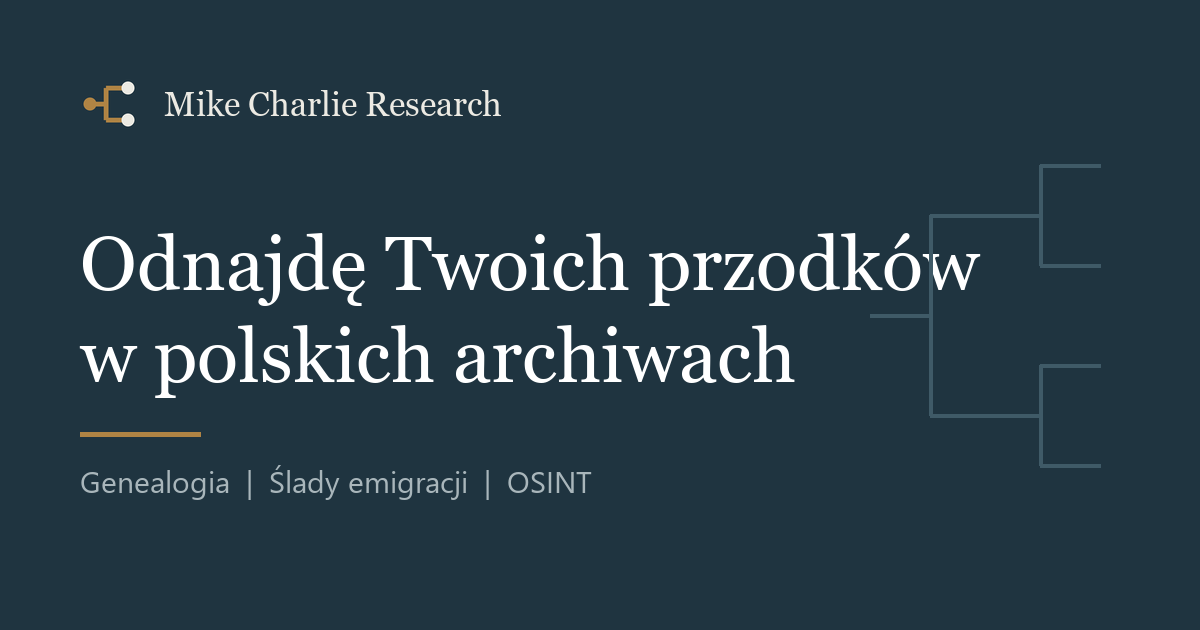
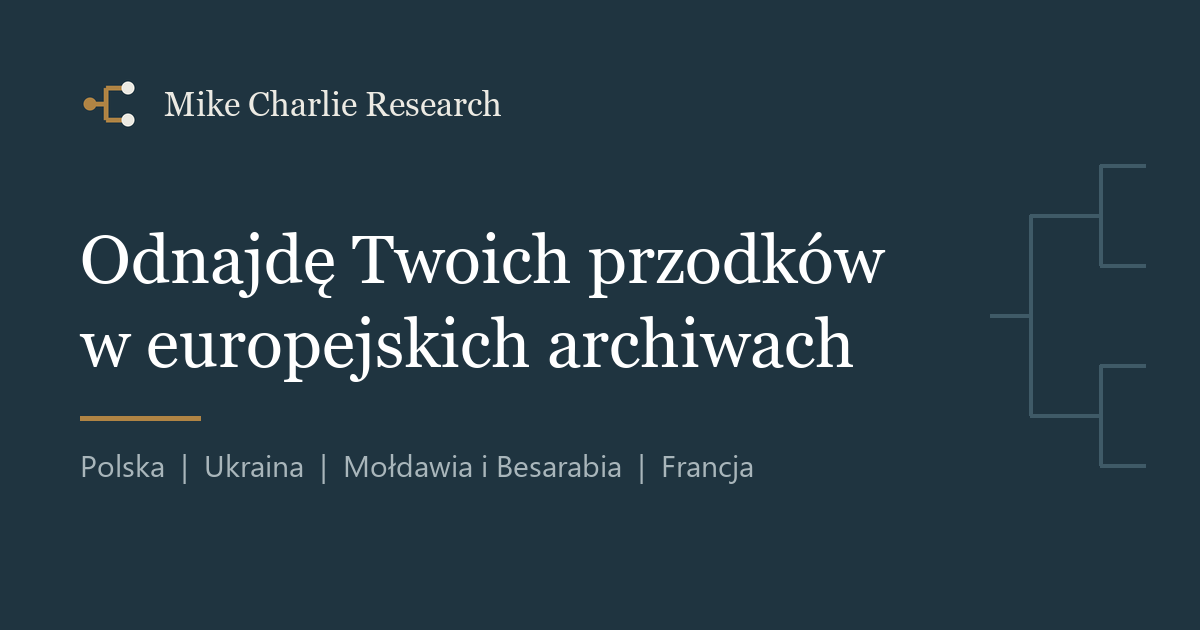
Reposition for international clients: European archives, Canadian citizenship, academic research
- Hero, services and FAQ cover Poland, Ukraine, Moldova/Bessarabia and France
- New service: lineage documentation for proof of Canadian citizenship by descent
- Academic archival research, incl. Polish Government-in-Exile documents
- Updated pedigree example, JSON-LD, Open Graph images and llms.txt

Changed region(s): [[0.0617, 0.2413, 0.9558, 0.754], [0.0617, 0.7238, 0.6475, 0.7841]]

diff --git a/index.html b/index.html
@@ -3,8 +3,8 @@
 <head>
   <meta charset="utf-8">
   <meta name="viewport" content="width=device-width, initial-scale=1">
-  <title>Polish Genealogy Research &amp; OSINT | Mike Charlie Research</title>
-  <meta name="description" content="Find your ancestors in Poland: archival genealogy research in parish and civil records, emigration tracing, record translation and OSINT. Reports in English.">
+  <title>Eastern European Genealogy Research | Mike Charlie Research</title>
+  <meta name="description" content="Find your ancestors in Poland, Ukraine, Moldova (Bessarabia), France and beyond. Archival genealogy research, Canadian citizenship-by-descent records, OSINT.">
   <link rel="canonical" href="https://osintinvestigator.github.io/osint/">
   <link rel="alternate" hreflang="en" href="https://osintinvestigator.github.io/osint/">
   <link rel="alternate" hreflang="pl" href="https://osintinvestigator.github.io/osint/pl/">
@@ -14,8 +14,8 @@
 
   <meta property="og:type" content="website">
   <meta property="og:site_name" content="Mike Charlie Research">
-  <meta property="og:title" content="Polish Genealogy Research &amp; OSINT | Mike Charlie Research">
-  <meta property="og:description" content="Ancestor research in Polish archives, emigration tracing and evidence-based verification. Every finding tied to a cited record.">
+  <meta property="og:title" content="Eastern European Genealogy Research | Mike Charlie Research">
+  <meta property="og:description" content="Ancestor research in the archives of Poland, Ukraine, Moldova, France and beyond, for families in the US, Canada, Germany and Israel. Every finding tied to a cited record.">
   <meta property="og:url" content="https://osintinvestigator.github.io/osint/">
   <meta property="og:image" content="https://osintinvestigator.github.io/osint/assets/og-image.png">
   <meta property="og:image:width" content="1200">
@@ -45,19 +45,20 @@
         "logo": "https://osintinvestigator.github.io/osint/assets/apple-touch-icon.png",
         "image": "https://osintinvestigator.github.io/osint/assets/og-image.png",
         "email": "mike.charlie21@proton.me",
-        "description": "Genealogy research in Polish archives, emigration tracing, historical source verification and open-source intelligence (OSINT) research for private clients, lawyers and journalists.",
+        "description": "Genealogy research in European archives, especially Poland, Ukraine, Moldova (historic Bessarabia) and France, for clients in the United States, Canada, Germany and Israel. Lineage documentation for proof of Canadian citizenship by descent, archival research for academics, historical source verification and open-source intelligence (OSINT).",
         "areaServed": "Worldwide",
         "availableLanguage": ["English", "Polish"],
-        "knowsAbout": ["Polish genealogy", "Genealogical research", "Archival research", "Parish registers", "Emigration records", "Historical source verification", "Open-source intelligence", "Due diligence"],
+        "knowsAbout": ["Eastern European genealogy", "Polish genealogy", "Ukrainian genealogy", "Bessarabia genealogy", "Moldovan genealogy", "Jewish genealogy", "French genealogy", "Canadian citizenship by descent", "Polish Government-in-Exile", "Archival research", "Metrical books", "Emigration records", "Historical source verification", "Open-source intelligence"],
         "hasOfferCatalog": {
           "@type": "OfferCatalog",
           "name": "Research services",
           "itemListElement": [
-            {"@type": "Offer", "itemOffered": {"@type": "Service", "name": "Ancestor research in Polish archives"}},
+            {"@type": "Offer", "itemOffered": {"@type": "Service", "name": "Ancestor research in Poland, Ukraine, Moldova (Bessarabia), France and other European archives"}},
+            {"@type": "Offer", "itemOffered": {"@type": "Service", "name": "Lineage documentation for proof of Canadian citizenship by descent"}},
             {"@type": "Offer", "itemOffered": {"@type": "Service", "name": "Emigration tracing and village-of-origin search"}},
             {"@type": "Offer", "itemOffered": {"@type": "Service", "name": "Reading and translating old records"}},
             {"@type": "Offer", "itemOffered": {"@type": "Service", "name": "20th-century fates: war, deportation and displacement"}},
-            {"@type": "Offer", "itemOffered": {"@type": "Service", "name": "Historical source verification"}},
+            {"@type": "Offer", "itemOffered": {"@type": "Service", "name": "Archival research and historical source verification for academics"}},
             {"@type": "Offer", "itemOffered": {"@type": "Service", "name": "OSINT background checks and due diligence"}}
           ]
         }
@@ -73,12 +74,16 @@
       {
         "@type": "FAQPage",
         "mainEntity": [
-          {"@type": "Question", "name": "How far back can Polish records go?",
-           "acceptedAnswer": {"@type": "Answer", "text": "Many Catholic parish registers survive from the 17th or 18th century, and civil-religious registers were kept in most of central Poland from 1808. Wars destroyed some collections, so how far a line can be taken depends on the parish. I tell you what is likely to survive before any work begins."}},
+          {"@type": "Question", "name": "Which countries do you research?",
+           "acceptedAnswer": {"@type": "Answer", "text": "Mostly Central and Eastern Europe: Poland, Ukraine, Moldova and historic Bessarabia, plus France, Germany and other countries where a family line leads. Most of my clients live in the United States, Germany, Israel and Canada."}},
+          {"@type": "Question", "name": "How far back do the records go?",
+           "acceptedAnswer": {"@type": "Answer", "text": "It depends on the country and the parish or congregation. In Poland many Catholic parish registers survive from the 17th or 18th century; in former Russian Empire territories such as Bessarabia most surviving metrical books date from the 19th century. Wars destroyed some collections, so I tell you what is likely to survive before any work begins."}},
+          {"@type": "Question", "name": "Can you help me prove Canadian citizenship by descent?",
+           "acceptedAnswer": {"@type": "Answer", "text": "Yes, on the research side. I find and document the birth, marriage and citizenship records that connect you to a Canadian ancestor, and assemble them into a clear lineage file. I do not give legal advice or submit applications; for that, work with an immigration lawyer or with IRCC directly."}},
           {"@type": "Question", "name": "Do I need to know the village my family came from?",
            "acceptedAnswer": {"@type": "Answer", "text": "No. Finding the place of origin is often the first part of the job. Emigration, naturalisation, military and church records in the destination country frequently name the town or parish."}},
           {"@type": "Question", "name": "My family's surname was changed after emigration. Can you still find them?",
-           "acceptedAnswer": {"@type": "Answer", "text": "Usually, yes. Anglicised and misspelled names are common; I work from the Polish, Latin, German or Russian forms that would have appeared in the original records."}},
+           "acceptedAnswer": {"@type": "Answer", "text": "Usually, yes. Anglicised and misspelled names are common; I work from the forms that would have appeared in the original records, whether Polish, Latin, German, Russian or another language."}},
           {"@type": "Question", "name": "Can we talk by phone or video call?",
            "acceptedAnswer": {"@type": "Answer", "text": "No. All communication is by email. It keeps a written record of the scope, the questions and the findings, and it lets you reply in your own time."}},
           {"@type": "Question", "name": "What will I receive at the end?",
@@ -112,8 +117,8 @@
     <section class="hero">
       <div class="wrap">
         <div>
-          <h1>Find your ancestors in Poland's archives</h1>
-          <p class="lede">Genealogy research in Polish parish, civil and state records, for families whose story continues in America, Canada, Germany, Israel or anywhere else.</p>
+          <h1>Find your ancestors in Europe's archives</h1>
+          <p class="lede">Genealogy research in Poland, Ukraine, Moldova and historic Bessarabia, France and beyond, for families who live in the United States, Canada, Germany, Israel or anywhere else.</p>
           <p class="sub">I combine classical archival research with open-source intelligence methods, so leads that look like dead ends often turn out not to be.</p>
           <div class="cta-row">
             <a class="btn" href="#contact">Describe your family's story</a>
@@ -121,30 +126,30 @@
           </div>
         </div>
         <figure style="margin:0">
-          <svg class="tree" viewBox="0 0 540 400" role="img" aria-labelledby="tree-t tree-d">
-          <title id="tree-t">Example ancestor chart</title><desc id="tree-d">Four generations traced back from a client in North America to great-grandparents born in Tarnów, Posen and Łomża, with unresolved branches marked as not yet found.</desc>
-          <path class="br g2" d="M112 200H127M127 100V300M127 100H142M127 300H142"/>
-          <path class="br g3" d="M254 100H269M269 50V150M269 50H284M269 150H284"/>
-          <path class="br g3" d="M254 300H269M269 250V350M269 250H284M269 350H284"/>
-          <path class="br g4" d="M396 50H411M411 25V75M411 25H426M411 75H426"/>
-          <path class="br g4" d="M396 150H411M411 125V175M411 125H426M411 175H426"/>
-          <path class="br g4" d="M396 250H411M411 225V275M411 225H426M411 275H426"/>
-          <path class="br g4" d="M396 350H411M411 325V375M411 325H426M411 375H426"/>
-          <g class="slip g1 you"><rect x="0" y="182" width="112" height="36" rx="2"/><text x="8" y="197">You</text><text class="y" x="8" y="211">the client</text></g>
-          <g class="slip g2"><rect x="142" y="82" width="112" height="36" rx="2"/><text x="150" y="97">Father</text><text class="y" x="150" y="111">b. 1946, Chicago</text></g>
-          <g class="slip g2"><rect x="142" y="282" width="112" height="36" rx="2"/><text x="150" y="297">Mother</text><text class="y" x="150" y="311">b. 1949, Toronto</text></g>
-          <g class="slip g3"><rect x="284" y="32" width="112" height="36" rx="2"/><text x="292" y="47">Józef Nowak</text><text class="y" x="292" y="61">b. 1912, Tarnów</text></g>
-          <g class="slip g3"><rect x="284" y="132" width="112" height="36" rx="2"/><text x="292" y="147">Helena Weber</text><text class="y" x="292" y="161">b. 1915, Poznań</text></g>
-          <g class="slip g3"><rect x="284" y="232" width="112" height="36" rx="2"/><text x="292" y="247">Stanisław Lis</text><text class="y" x="292" y="261">b. 1908, Łomża</text></g>
-          <g class="slip g3 unknown"><rect x="284" y="332" width="112" height="36" rx="2"/><text x="292" y="347">Grandmother</text><text class="y" x="292" y="361">name unknown</text></g>
-          <g class="slip g4"><rect x="426" y="7" width="112" height="36" rx="2"/><text x="434" y="22">Jan Nowak</text><text class="y" x="434" y="36">b. 1881, Tarnów</text></g>
-          <g class="slip g4"><rect x="426" y="57" width="112" height="36" rx="2"/><text x="434" y="72">Maria Kos</text><text class="y" x="434" y="86">b. 1886, Tarnów</text></g>
-          <g class="slip g4"><rect x="426" y="107" width="112" height="36" rx="2"/><text x="434" y="122">Franz Weber</text><text class="y" x="434" y="136">b. 1879, Posen</text></g>
-          <g class="slip g4 unknown"><rect x="426" y="157" width="112" height="36" rx="2"/><text x="434" y="172">?</text><text class="y" x="434" y="186">not yet found</text></g>
-          <g class="slip g4"><rect x="426" y="207" width="112" height="36" rx="2"/><text x="434" y="222">Wojciech Lis</text><text class="y" x="434" y="236">b. 1874, Łomża</text></g>
-          <g class="slip g4"><rect x="426" y="257" width="112" height="36" rx="2"/><text x="434" y="272">Anna Wróbel</text><text class="y" x="434" y="286">b. 1880, Łomża</text></g>
-          <g class="slip g4 unknown"><rect x="426" y="307" width="112" height="36" rx="2"/><text x="434" y="322">?</text><text class="y" x="434" y="336">not yet found</text></g>
-          <g class="slip g4 unknown"><rect x="426" y="357" width="112" height="36" rx="2"/><text x="434" y="372">?</text><text class="y" x="434" y="386">not yet found</text></g>
+          <svg class="tree" viewBox="0 0 552 400" role="img" aria-labelledby="tree-t tree-d">
+          <title id="tree-t">Example ancestor chart</title><desc id="tree-d">Four generations traced back from a client in North America to great-grandparents born in Tarnów, Czernowitz and Soroca in Bessarabia, with unresolved branches marked as not yet found.</desc>
+          <path class="br g2" d="M117 200H132M132 100V300M132 100H145M132 300H145"/>
+          <path class="br g3" d="M262 100H277M277 50V150M277 50H290M277 150H290"/>
+          <path class="br g3" d="M262 300H277M277 250V350M277 250H290M277 350H290"/>
+          <path class="br g4" d="M407 50H422M422 25V75M422 25H435M422 75H435"/>
+          <path class="br g4" d="M407 150H422M422 125V175M422 125H435M422 175H435"/>
+          <path class="br g4" d="M407 250H422M422 225V275M422 225H435M422 275H435"/>
+          <path class="br g4" d="M407 350H422M422 325V375M422 325H435M422 375H435"/>
+          <g class="slip g1 you"><rect x="0" y="182" width="117" height="36" rx="2"/><text x="8" y="197">You</text><text class="y" x="8" y="211">the client</text></g>
+          <g class="slip g2"><rect x="145" y="82" width="117" height="36" rx="2"/><text x="153" y="97">Father</text><text class="y" x="153" y="111">b. 1946, Chicago</text></g>
+          <g class="slip g2"><rect x="145" y="282" width="117" height="36" rx="2"/><text x="153" y="297">Mother</text><text class="y" x="153" y="311">b. 1949, Toronto</text></g>
+          <g class="slip g3"><rect x="290" y="32" width="117" height="36" rx="2"/><text x="298" y="47">Józef Nowak</text><text class="y" x="298" y="61">b. 1912, Tarnów</text></g>
+          <g class="slip g3"><rect x="290" y="132" width="117" height="36" rx="2"/><text x="298" y="147">Helena Weber</text><text class="y" x="298" y="161">b. 1915, Lemberg</text></g>
+          <g class="slip g3"><rect x="290" y="232" width="117" height="36" rx="2"/><text x="298" y="247">Mendel Roitman</text><text class="y" x="298" y="261">b. 1908, Kishinev</text></g>
+          <g class="slip g3 unknown"><rect x="290" y="332" width="117" height="36" rx="2"/><text x="298" y="347">Grandmother</text><text class="y" x="298" y="361">name unknown</text></g>
+          <g class="slip g4"><rect x="435" y="7" width="117" height="36" rx="2"/><text x="443" y="22">Jan Nowak</text><text class="y" x="443" y="36">b. 1881, Tarnów</text></g>
+          <g class="slip g4"><rect x="435" y="57" width="117" height="36" rx="2"/><text x="443" y="72">Maria Kos</text><text class="y" x="443" y="86">b. 1886, Tarnów</text></g>
+          <g class="slip g4"><rect x="435" y="107" width="117" height="36" rx="2"/><text x="443" y="122">Franz Weber</text><text class="y" x="443" y="136">b. 1879, Czernowitz</text></g>
+          <g class="slip g4 unknown"><rect x="435" y="157" width="117" height="36" rx="2"/><text x="443" y="172">?</text><text class="y" x="443" y="186">not yet found</text></g>
+          <g class="slip g4"><rect x="435" y="207" width="117" height="36" rx="2"/><text x="443" y="222">Leib Roitman</text><text class="y" x="443" y="236">b. 1874, Soroca</text></g>
+          <g class="slip g4"><rect x="435" y="257" width="117" height="36" rx="2"/><text x="443" y="272">Chaja Roitman</text><text class="y" x="443" y="286">b. 1880, Soroca</text></g>
+          <g class="slip g4 unknown"><rect x="435" y="307" width="117" height="36" rx="2"/><text x="443" y="322">?</text><text class="y" x="443" y="336">not yet found</text></g>
+          <g class="slip g4 unknown"><rect x="435" y="357" width="117" height="36" rx="2"/><text x="443" y="372">?</text><text class="y" x="443" y="386">not yet found</text></g>
           </svg>
           <figcaption class="tree-cap">Illustrative chart. Every name in a real report is tied to a cited record; gaps stay marked as gaps.</figcaption>
         </figure>
@@ -155,12 +160,16 @@
       <div class="wrap split">
         <header>
           <h2>Genealogy research</h2>
-          <p>Most of the work: tracing families back through records kept in Poland and the lands of the former partitions.</p>
+          <p>Most of my work, for clients abroad: tracing families through parish, synagogue, civil and state records across Central and Eastern Europe, and wherever else a line leads.</p>
         </header>
         <ul class="services">
           <li>
-            <h3>Ancestor search in Polish archives</h3>
-            <p>Births, marriages and deaths from parish and civil registers, State Archives, diocesan archives and the online indexes built on them.</p>
+            <h3>Ancestors across Europe</h3>
+            <p>Births, marriages and deaths from archives in Poland, Ukraine, Moldova and historic Bessarabia, France and neighbouring countries, and from the online indexes built on them.</p>
+          </li>
+          <li>
+            <h3>Proof of Canadian citizenship</h3>
+            <p>For Americans and others with a Canadian ancestor: the birth, marriage and citizenship records that document your line of descent, assembled into a clear file.</p>
           </li>
           <li>
             <h3>Emigration tracing</h3>
@@ -175,12 +184,8 @@
             <p>What happened to relatives during the wars, deportations and border changes, from military, displacement and emigration-era sources.</p>
           </li>
           <li>
-            <h3>Living relatives</h3>
-            <p>Locating adult descendants of a shared ancestor, using lawful open sources and a careful, consent-minded approach to first contact.</p>
-          </li>
-          <li>
-            <h3>Checking an existing tree</h3>
-            <p>A second look at research you or someone else has done: which links are proven, which are guesses, and what to search next.</p>
+            <h3>Living relatives and existing trees</h3>
+            <p>Locating adult descendants of a shared ancestor through lawful open sources, or a second look at an existing tree: what is proven, what is a guess, what to search next.</p>
           </li>
         </ul>
       </div>
@@ -205,8 +210,9 @@
               </ul>
             </div>
             <div>
-              <h3>Historical source verification</h3>
+              <h3>Academic and historical research</h3>
               <ul class="plain">
+                <li>Archival analysis for university researchers in the United States, including documents of the Polish Government-in-Exile</li>
                 <li>Independent review of a historical argument before publication</li>
                 <li>Claim-by-claim check against the cited evidence</li>
                 <li>Documented negative findings and open questions</li>
@@ -281,8 +287,16 @@
         </header>
         <div>
           <details>
-            <summary>How far back can Polish records go?</summary>
-            <p>Many Catholic parish registers survive from the 17th or 18th century, and civil-religious registers were kept in most of central Poland from 1808. Wars destroyed some collections, so how far a line can be taken depends on the parish. I tell you what is likely to survive before any work begins.</p>
+            <summary>Which countries do you research?</summary>
+            <p>Mostly Central and Eastern Europe: Poland, Ukraine, Moldova and historic Bessarabia, plus France, Germany and other countries where a family line leads. Most of my clients live in the United States, Germany, Israel and Canada.</p>
+          </details>
+          <details>
+            <summary>How far back do the records go?</summary>
+            <p>It depends on the country and the parish or congregation. In Poland many Catholic parish registers survive from the 17th or 18th century; in former Russian Empire territories such as Bessarabia most surviving metrical books date from the 19th century. Wars destroyed some collections, so I tell you what is likely to survive before any work begins.</p>
+          </details>
+          <details>
+            <summary>Can you help me prove Canadian citizenship by descent?</summary>
+            <p>Yes, on the research side. I find and document the birth, marriage and citizenship records that connect you to a Canadian ancestor, and assemble them into a clear lineage file. I do not give legal advice or submit applications; for that, work with an immigration lawyer or with IRCC directly.</p>
           </details>
           <details>
             <summary>Do I need to know the village my family came from?</summary>
@@ -290,7 +304,7 @@
           </details>
           <details>
             <summary>My family's surname was changed after emigration. Can you still find them?</summary>
-            <p>Usually, yes. Anglicised and misspelled names are common; I work from the Polish, Latin, German or Russian forms that would have appeared in the original records.</p>
+            <p>Usually, yes. Anglicised and misspelled names are common; I work from the forms that would have appeared in the original records, whether Polish, Latin, German, Russian or another language.</p>
           </details>
           <details>
             <summary>Can we talk by phone or video call?</summary>

diff --git a/pl/index.html b/pl/index.html
@@ -3,8 +3,8 @@
 <head>
   <meta charset="utf-8">
   <meta name="viewport" content="width=device-width, initial-scale=1">
-  <title>Genealogia i poszukiwania przodków, OSINT | Mike Charlie Research</title>
-  <meta name="description" content="Poszukiwania przodków w polskich archiwach: księgi metrykalne, akta stanu cywilnego, ślady emigracji, odczytywanie dawnych dokumentów i OSINT. Kontakt e-mailowy.">
+  <title>Poszukiwania przodków w Europie | Mike Charlie Research</title>
+  <meta name="description" content="Poszukiwania przodków w archiwach Polski, Ukrainy, Mołdawii (Besarabii), Francji i innych krajów. Dokumentacja do obywatelstwa Kanady, kwerendy naukowe, OSINT.">
   <link rel="canonical" href="https://osintinvestigator.github.io/osint/pl/">
   <link rel="alternate" hreflang="en" href="https://osintinvestigator.github.io/osint/">
   <link rel="alternate" hreflang="pl" href="https://osintinvestigator.github.io/osint/pl/">
@@ -14,8 +14,8 @@
 
   <meta property="og:type" content="website">
   <meta property="og:site_name" content="Mike Charlie Research">
-  <meta property="og:title" content="Genealogia i poszukiwania przodków | Mike Charlie Research">
-  <meta property="og:description" content="Poszukiwania przodków w polskich archiwach, ślady emigracji i weryfikacja źródeł. Każde ustalenie poparte przypisem do dokumentu.">
+  <meta property="og:title" content="Genealogia i poszukiwania przodków w Europie | Mike Charlie Research">
+  <meta property="og:description" content="Poszukiwania przodków w archiwach Polski, Ukrainy, Mołdawii, Francji i innych krajów, dla rodzin z USA, Kanady, Niemiec i Izraela. Każde ustalenie poparte przypisem do dokumentu.">
   <meta property="og:url" content="https://osintinvestigator.github.io/osint/pl/">
   <meta property="og:image" content="https://osintinvestigator.github.io/osint/assets/og-image-pl.png">
   <meta property="og:image:width" content="1200">
@@ -45,17 +45,21 @@
         "logo": "https://osintinvestigator.github.io/osint/assets/apple-touch-icon.png",
         "image": "https://osintinvestigator.github.io/osint/assets/og-image-pl.png",
         "email": "mike.charlie21@proton.me",
-        "description": "Poszukiwania genealogiczne w polskich archiwach, ustalanie śladów emigracji, weryfikacja źródeł historycznych oraz biały wywiad (OSINT) dla osób prywatnych, prawników i dziennikarzy.",
+        "description": "Poszukiwania genealogiczne w archiwach europejskich, zwłaszcza Polski, Ukrainy, Mołdawii (historycznej Besarabii) i Francji, dla klientów z USA, Kanady, Niemiec i Izraela. Dokumentacja pochodzenia do potwierdzenia obywatelstwa Kanady, kwerendy dla naukowców, weryfikacja źródeł historycznych i biały wywiad (OSINT).",
         "areaServed": "Worldwide",
         "availableLanguage": ["Polish", "English"],
-        "knowsAbout": ["Genealogia", "Poszukiwania przodków", "Księgi metrykalne", "Archiwa państwowe", "Emigracja", "Weryfikacja źródeł historycznych", "Biały wywiad", "OSINT"]
+        "knowsAbout": ["Genealogia", "Poszukiwania przodków", "Genealogia Europy Wschodniej", "Besarabia", "Mołdawia", "Ukraina", "Obywatelstwo Kanady przez pochodzenie", "Rząd RP na uchodźstwie", "Księgi metrykalne", "Emigracja", "Weryfikacja źródeł historycznych", "OSINT"]
       },
       {
         "@type": "FAQPage",
         "inLanguage": "pl",
         "mainEntity": [
-          {"@type": "Question", "name": "Jak daleko wstecz sięgają polskie dokumenty?",
-           "acceptedAnswer": {"@type": "Answer", "text": "Wiele katolickich ksiąg parafialnych zachowało się od XVII lub XVIII wieku, a akta stanu cywilnego prowadzono na większości ziem centralnej Polski od 1808 roku. Część zasobów zniszczyły wojny, więc zasięg poszukiwań zależy od parafii. Zanim zacznę pracę, mówię, czego realnie można się spodziewać."}},
+          {"@type": "Question", "name": "W jakich krajach prowadzisz poszukiwania?",
+           "acceptedAnswer": {"@type": "Answer", "text": "Głównie w Europie Środkowej i Wschodniej: w Polsce, na Ukrainie, w Mołdawii i historycznej Besarabii, a także we Francji, w Niemczech i innych krajach, do których prowadzi linia rodu. Większość moich klientów mieszka w USA, Niemczech, Izraelu i Kanadzie."}},
+          {"@type": "Question", "name": "Jak daleko wstecz sięgają dokumenty?",
+           "acceptedAnswer": {"@type": "Answer", "text": "To zależy od kraju i parafii lub gminy wyznaniowej. W Polsce wiele katolickich ksiąg parafialnych zachowało się od XVII lub XVIII wieku; na dawnych ziemiach Imperium Rosyjskiego, np. w Besarabii, większość zachowanych ksiąg metrykalnych pochodzi z XIX wieku. Część zasobów zniszczyły wojny, więc zanim zacznę pracę, mówię, czego realnie można się spodziewać."}},
+          {"@type": "Question", "name": "Czy pomagasz w potwierdzeniu obywatelstwa Kanady przez pochodzenie?",
+           "acceptedAnswer": {"@type": "Answer", "text": "Tak, w części badawczej. Odnajduję i dokumentuję akta urodzeń, małżeństw i obywatelstwa, które łączą Cię z kanadyjskim przodkiem, i zestawiam je w przejrzystą dokumentację pochodzenia. Nie udzielam porad prawnych i nie składam wniosków; w tym zakresie należy zwrócić się do prawnika imigracyjnego lub bezpośrednio do IRCC."}},
           {"@type": "Question", "name": "Czy muszę znać miejscowość, z której pochodziła rodzina?",
            "acceptedAnswer": {"@type": "Answer", "text": "Nie. Ustalenie miejsca pochodzenia to często pierwszy etap pracy. Dokumenty emigracyjne, wojskowe i kościelne często wskazują miejscowość lub parafię."}},
           {"@type": "Question", "name": "Czy można porozmawiać telefonicznie?",
@@ -91,8 +95,8 @@
     <section class="hero">
       <div class="wrap">
         <div>
-          <h1>Odnajdę Twoich przodków w polskich archiwach</h1>
-          <p class="lede">Poszukiwania genealogiczne w księgach metrykalnych, aktach stanu cywilnego i zasobach archiwów państwowych, również dla rodzin, których historia toczy się dziś za granicą.</p>
+          <h1>Odnajdę Twoich przodków w europejskich archiwach</h1>
+          <p class="lede">Poszukiwania genealogiczne w Polsce, na Ukrainie, w Mołdawii i historycznej Besarabii, we Francji i dalej, dla rodzin mieszkających w USA, Kanadzie, Niemczech, Izraelu i w Polsce.</p>
           <p class="sub">Łączę klasyczną kwerendę archiwalną z metodami białego wywiadu (OSINT), dlatego ślady, które wyglądają na ślepy zaułek, często nim nie są.</p>
           <div class="cta-row">
             <a class="btn" href="#kontakt">Opisz historię swojej rodziny</a>
@@ -100,30 +104,30 @@
           </div>
         </div>
         <figure style="margin:0">
-          <svg class="tree" viewBox="0 0 540 400" role="img" aria-labelledby="tree-t tree-d">
-          <title id="tree-t">Przykładowa tablica przodków</title><desc id="tree-d">Cztery pokolenia od klienta z Ameryki Północnej do pradziadków urodzonych w Tarnowie, Poznaniu i Łomży; nieustalone gałęzie oznaczone jako jeszcze nieznalezione.</desc>
-          <path class="br g2" d="M112 200H127M127 100V300M127 100H142M127 300H142"/>
-          <path class="br g3" d="M254 100H269M269 50V150M269 50H284M269 150H284"/>
-          <path class="br g3" d="M254 300H269M269 250V350M269 250H284M269 350H284"/>
-          <path class="br g4" d="M396 50H411M411 25V75M411 25H426M411 75H426"/>
-          <path class="br g4" d="M396 150H411M411 125V175M411 125H426M411 175H426"/>
-          <path class="br g4" d="M396 250H411M411 225V275M411 225H426M411 275H426"/>
-          <path class="br g4" d="M396 350H411M411 325V375M411 325H426M411 375H426"/>
-          <g class="slip g1 you"><rect x="0" y="182" width="112" height="36" rx="2"/><text x="8" y="197">Ty</text><text class="y" x="8" y="211">klient</text></g>
-          <g class="slip g2"><rect x="142" y="82" width="112" height="36" rx="2"/><text x="150" y="97">Ojciec</text><text class="y" x="150" y="111">ur. 1946, Chicago</text></g>
-          <g class="slip g2"><rect x="142" y="282" width="112" height="36" rx="2"/><text x="150" y="297">Matka</text><text class="y" x="150" y="311">ur. 1949, Toronto</text></g>
-          <g class="slip g3"><rect x="284" y="32" width="112" height="36" rx="2"/><text x="292" y="47">Józef Nowak</text><text class="y" x="292" y="61">ur. 1912, Tarnów</text></g>
-          <g class="slip g3"><rect x="284" y="132" width="112" height="36" rx="2"/><text x="292" y="147">Helena Weber</text><text class="y" x="292" y="161">ur. 1915, Poznań</text></g>
-          <g class="slip g3"><rect x="284" y="232" width="112" height="36" rx="2"/><text x="292" y="247">Stanisław Lis</text><text class="y" x="292" y="261">ur. 1908, Łomża</text></g>
-          <g class="slip g3 unknown"><rect x="284" y="332" width="112" height="36" rx="2"/><text x="292" y="347">Babcia</text><text class="y" x="292" y="361">nazwisko nieznane</text></g>
-          <g class="slip g4"><rect x="426" y="7" width="112" height="36" rx="2"/><text x="434" y="22">Jan Nowak</text><text class="y" x="434" y="36">ur. 1881, Tarnów</text></g>
-          <g class="slip g4"><rect x="426" y="57" width="112" height="36" rx="2"/><text x="434" y="72">Maria Kos</text><text class="y" x="434" y="86">ur. 1886, Tarnów</text></g>
-          <g class="slip g4"><rect x="426" y="107" width="112" height="36" rx="2"/><text x="434" y="122">Franz Weber</text><text class="y" x="434" y="136">ur. 1879, Posen</text></g>
-          <g class="slip g4 unknown"><rect x="426" y="157" width="112" height="36" rx="2"/><text x="434" y="172">?</text><text class="y" x="434" y="186">nieustalony</text></g>
-          <g class="slip g4"><rect x="426" y="207" width="112" height="36" rx="2"/><text x="434" y="222">Wojciech Lis</text><text class="y" x="434" y="236">ur. 1874, Łomża</text></g>
-          <g class="slip g4"><rect x="426" y="257" width="112" height="36" rx="2"/><text x="434" y="272">Anna Wróbel</text><text class="y" x="434" y="286">ur. 1880, Łomża</text></g>
-          <g class="slip g4 unknown"><rect x="426" y="307" width="112" height="36" rx="2"/><text x="434" y="322">?</text><text class="y" x="434" y="336">nieustalony</text></g>
-          <g class="slip g4 unknown"><rect x="426" y="357" width="112" height="36" rx="2"/><text x="434" y="372">?</text><text class="y" x="434" y="386">nieustalony</text></g>
+          <svg class="tree" viewBox="0 0 552 400" role="img" aria-labelledby="tree-t tree-d">
+          <title id="tree-t">Przykładowa tablica przodków</title><desc id="tree-d">Cztery pokolenia od klienta z Ameryki Północnej do pradziadków urodzonych w Tarnowie, Czerniowcach i Sorokach w Besarabii; nieustalone gałęzie oznaczone jako jeszcze nieznalezione.</desc>
+          <path class="br g2" d="M117 200H132M132 100V300M132 100H145M132 300H145"/>
+          <path class="br g3" d="M262 100H277M277 50V150M277 50H290M277 150H290"/>
+          <path class="br g3" d="M262 300H277M277 250V350M277 250H290M277 350H290"/>
+          <path class="br g4" d="M407 50H422M422 25V75M422 25H435M422 75H435"/>
+          <path class="br g4" d="M407 150H422M422 125V175M422 125H435M422 175H435"/>
+          <path class="br g4" d="M407 250H422M422 225V275M422 225H435M422 275H435"/>
+          <path class="br g4" d="M407 350H422M422 325V375M422 325H435M422 375H435"/>
+          <g class="slip g1 you"><rect x="0" y="182" width="117" height="36" rx="2"/><text x="8" y="197">Ty</text><text class="y" x="8" y="211">klient</text></g>
+          <g class="slip g2"><rect x="145" y="82" width="117" height="36" rx="2"/><text x="153" y="97">Ojciec</text><text class="y" x="153" y="111">ur. 1946, Chicago</text></g>
+          <g class="slip g2"><rect x="145" y="282" width="117" height="36" rx="2"/><text x="153" y="297">Matka</text><text class="y" x="153" y="311">ur. 1949, Toronto</text></g>
+          <g class="slip g3"><rect x="290" y="32" width="117" height="36" rx="2"/><text x="298" y="47">Józef Nowak</text><text class="y" x="298" y="61">ur. 1912, Tarnów</text></g>
+          <g class="slip g3"><rect x="290" y="132" width="117" height="36" rx="2"/><text x="298" y="147">Helena Weber</text><text class="y" x="298" y="161">ur. 1915, Lwów</text></g>
+          <g class="slip g3"><rect x="290" y="232" width="117" height="36" rx="2"/><text x="298" y="247">Mendel Roitman</text><text class="y" x="298" y="261">ur. 1908, Kiszyniów</text></g>
+          <g class="slip g3 unknown"><rect x="290" y="332" width="117" height="36" rx="2"/><text x="298" y="347">Babcia</text><text class="y" x="298" y="361">nazwisko nieznane</text></g>
+          <g class="slip g4"><rect x="435" y="7" width="117" height="36" rx="2"/><text x="443" y="22">Jan Nowak</text><text class="y" x="443" y="36">ur. 1881, Tarnów</text></g>
+          <g class="slip g4"><rect x="435" y="57" width="117" height="36" rx="2"/><text x="443" y="72">Maria Kos</text><text class="y" x="443" y="86">ur. 1886, Tarnów</text></g>
+          <g class="slip g4"><rect x="435" y="107" width="117" height="36" rx="2"/><text x="443" y="122">Franz Weber</text><text class="y" x="443" y="136">ur. 1879, Czerniowce</text></g>
+          <g class="slip g4 unknown"><rect x="435" y="157" width="117" height="36" rx="2"/><text x="443" y="172">?</text><text class="y" x="443" y="186">nieustalony</text></g>
+          <g class="slip g4"><rect x="435" y="207" width="117" height="36" rx="2"/><text x="443" y="222">Leib Roitman</text><text class="y" x="443" y="236">ur. 1874, Soroki</text></g>
+          <g class="slip g4"><rect x="435" y="257" width="117" height="36" rx="2"/><text x="443" y="272">Chaja Roitman</text><text class="y" x="443" y="286">ur. 1880, Soroki</text></g>
+          <g class="slip g4 unknown"><rect x="435" y="307" width="117" height="36" rx="2"/><text x="443" y="322">?</text><text class="y" x="443" y="336">nieustalony</text></g>
+          <g class="slip g4 unknown"><rect x="435" y="357" width="117" height="36" rx="2"/><text x="443" y="372">?</text><text class="y" x="443" y="386">nieustalony</text></g>
           </svg>
           <figcaption class="tree-cap">Przykład poglądowy. W prawdziwym raporcie każda osoba ma przypis do dokumentu, a luki pozostają oznaczone jako luki.</figcaption>
         </figure>
@@ -134,12 +138,16 @@
       <div class="wrap split">
         <header>
           <h2>Genealogia</h2>
-          <p>Główna część mojej pracy: odtwarzanie losów rodzin na podstawie dokumentów z ziem polskich i dawnych zaborów.</p>
+          <p>Główna część mojej pracy, głównie dla klientów z zagranicy: odtwarzanie losów rodzin na podstawie akt parafialnych, synagogalnych, stanu cywilnego i archiwów państwowych w Europie Środkowej i Wschodniej oraz wszędzie tam, dokąd prowadzi linia rodu.</p>
         </header>
         <ul class="services">
           <li>
-            <h3>Poszukiwania przodków w archiwach</h3>
-            <p>Akta urodzeń, małżeństw i zgonów z ksiąg parafialnych i stanu cywilnego, archiwów państwowych i diecezjalnych oraz internetowych indeksów.</p>
+            <h3>Przodkowie w całej Europie</h3>
+            <p>Akta urodzeń, małżeństw i zgonów z archiwów Polski, Ukrainy, Mołdawii i historycznej Besarabii, Francji i krajów sąsiednich oraz z internetowych indeksów.</p>
+          </li>
+          <li>
+            <h3>Obywatelstwo Kanady przez pochodzenie</h3>
+            <p>Dla Amerykanów i innych osób z kanadyjskim przodkiem: akta urodzeń, małżeństw i obywatelstwa dokumentujące linię pochodzenia, zestawione w przejrzystą całość.</p>
           </li>
           <li>
             <h3>Ślady emigracji</h3>
@@ -147,19 +155,15 @@
           </li>
           <li>
             <h3>Odczytywanie dawnych dokumentów</h3>
-            <p>Rękopiśmienne wpisy po polsku, łacinie, rosyjsku i niemiecku, przepisane i przetłumaczone na współczesny język.</p>
+            <p>Rękopiśmienne wpisy po polsku, łacinie, rosyjsku i niemiecku, przepisane i przetłumaczone na polski lub angielski.</p>
           </li>
           <li>
             <h3>Losy w XX wieku</h3>
             <p>Co działo się z krewnymi w czasie wojen, deportacji i zmian granic, na podstawie źródeł wojskowych, przesiedleńczych i emigracyjnych.</p>
           </li>
           <li>
-            <h3>Żyjący krewni</h3>
-            <p>Odnajdywanie pełnoletnich potomków wspólnego przodka, w oparciu o legalne, jawne źródła i z rozwagą przy pierwszym kontakcie.</p>
-          </li>
-          <li>
-            <h3>Weryfikacja istniejącego drzewa</h3>
-            <p>Drugie spojrzenie na wcześniejsze ustalenia: które powiązania są udowodnione, które są domysłem i czego szukać dalej.</p>
+            <h3>Żyjący krewni i istniejące drzewa</h3>
+            <p>Odnajdywanie pełnoletnich potomków wspólnego przodka w legalnych, jawnych źródłach albo drugie spojrzenie na istniejące drzewo: co udowodnione, co jest domysłem, czego szukać dalej.</p>
           </li>
         </ul>
       </div>
@@ -184,8 +188,9 @@
               </ul>
             </div>
             <div>
-              <h3>Weryfikacja źródeł historycznych</h3>
+              <h3>Kwerendy naukowe i historyczne</h3>
               <ul class="plain">
+                <li>Analiza dokumentów archiwalnych dla naukowców z USA, m.in. dotyczących Rządu RP na uchodźstwie</li>
                 <li>Niezależna ocena tekstu historycznego przed publikacją</li>
                 <li>Sprawdzenie każdej tezy względem przywołanych źródeł</li>
                 <li>Udokumentowane ustalenia negatywne i otwarte pytania</li>
@@ -260,8 +265,16 @@
         </header>
         <div>
           <details>
-            <summary>Jak daleko wstecz sięgają polskie dokumenty?</summary>
-            <p>Wiele katolickich ksiąg parafialnych zachowało się od XVII lub XVIII wieku, a akta stanu cywilnego prowadzono na większości ziem centralnej Polski od 1808 roku. Część zasobów zniszczyły wojny, więc zasięg poszukiwań zależy od parafii. Zanim zacznę pracę, mówię, czego realnie można się spodziewać.</p>
+            <summary>W jakich krajach prowadzisz poszukiwania?</summary>
+            <p>Głównie w Europie Środkowej i Wschodniej: w Polsce, na Ukrainie, w Mołdawii i historycznej Besarabii, a także we Francji, w Niemczech i innych krajach, do których prowadzi linia rodu. Większość moich klientów mieszka w USA, Niemczech, Izraelu i Kanadzie.</p>
+          </details>
+          <details>
+            <summary>Jak daleko wstecz sięgają dokumenty?</summary>
+            <p>To zależy od kraju i parafii lub gminy wyznaniowej. W Polsce wiele katolickich ksiąg parafialnych zachowało się od XVII lub XVIII wieku; na dawnych ziemiach Imperium Rosyjskiego, np. w Besarabii, większość zachowanych ksiąg metrykalnych pochodzi z XIX wieku. Część zasobów zniszczyły wojny, więc zanim zacznę pracę, mówię, czego realnie można się spodziewać.</p>
+          </details>
+          <details>
+            <summary>Czy pomagasz w potwierdzeniu obywatelstwa Kanady przez pochodzenie?</summary>
+            <p>Tak, w części badawczej. Odnajduję i dokumentuję akta urodzeń, małżeństw i obywatelstwa, które łączą Cię z kanadyjskim przodkiem, i zestawiam je w przejrzystą dokumentację pochodzenia. Nie udzielam porad prawnych i nie składam wniosków; w tym zakresie należy zwrócić się do prawnika imigracyjnego lub bezpośrednio do IRCC.</p>
           </details>
           <details>
             <summary>Czy muszę znać miejscowość, z której pochodziła rodzina?</summary>
